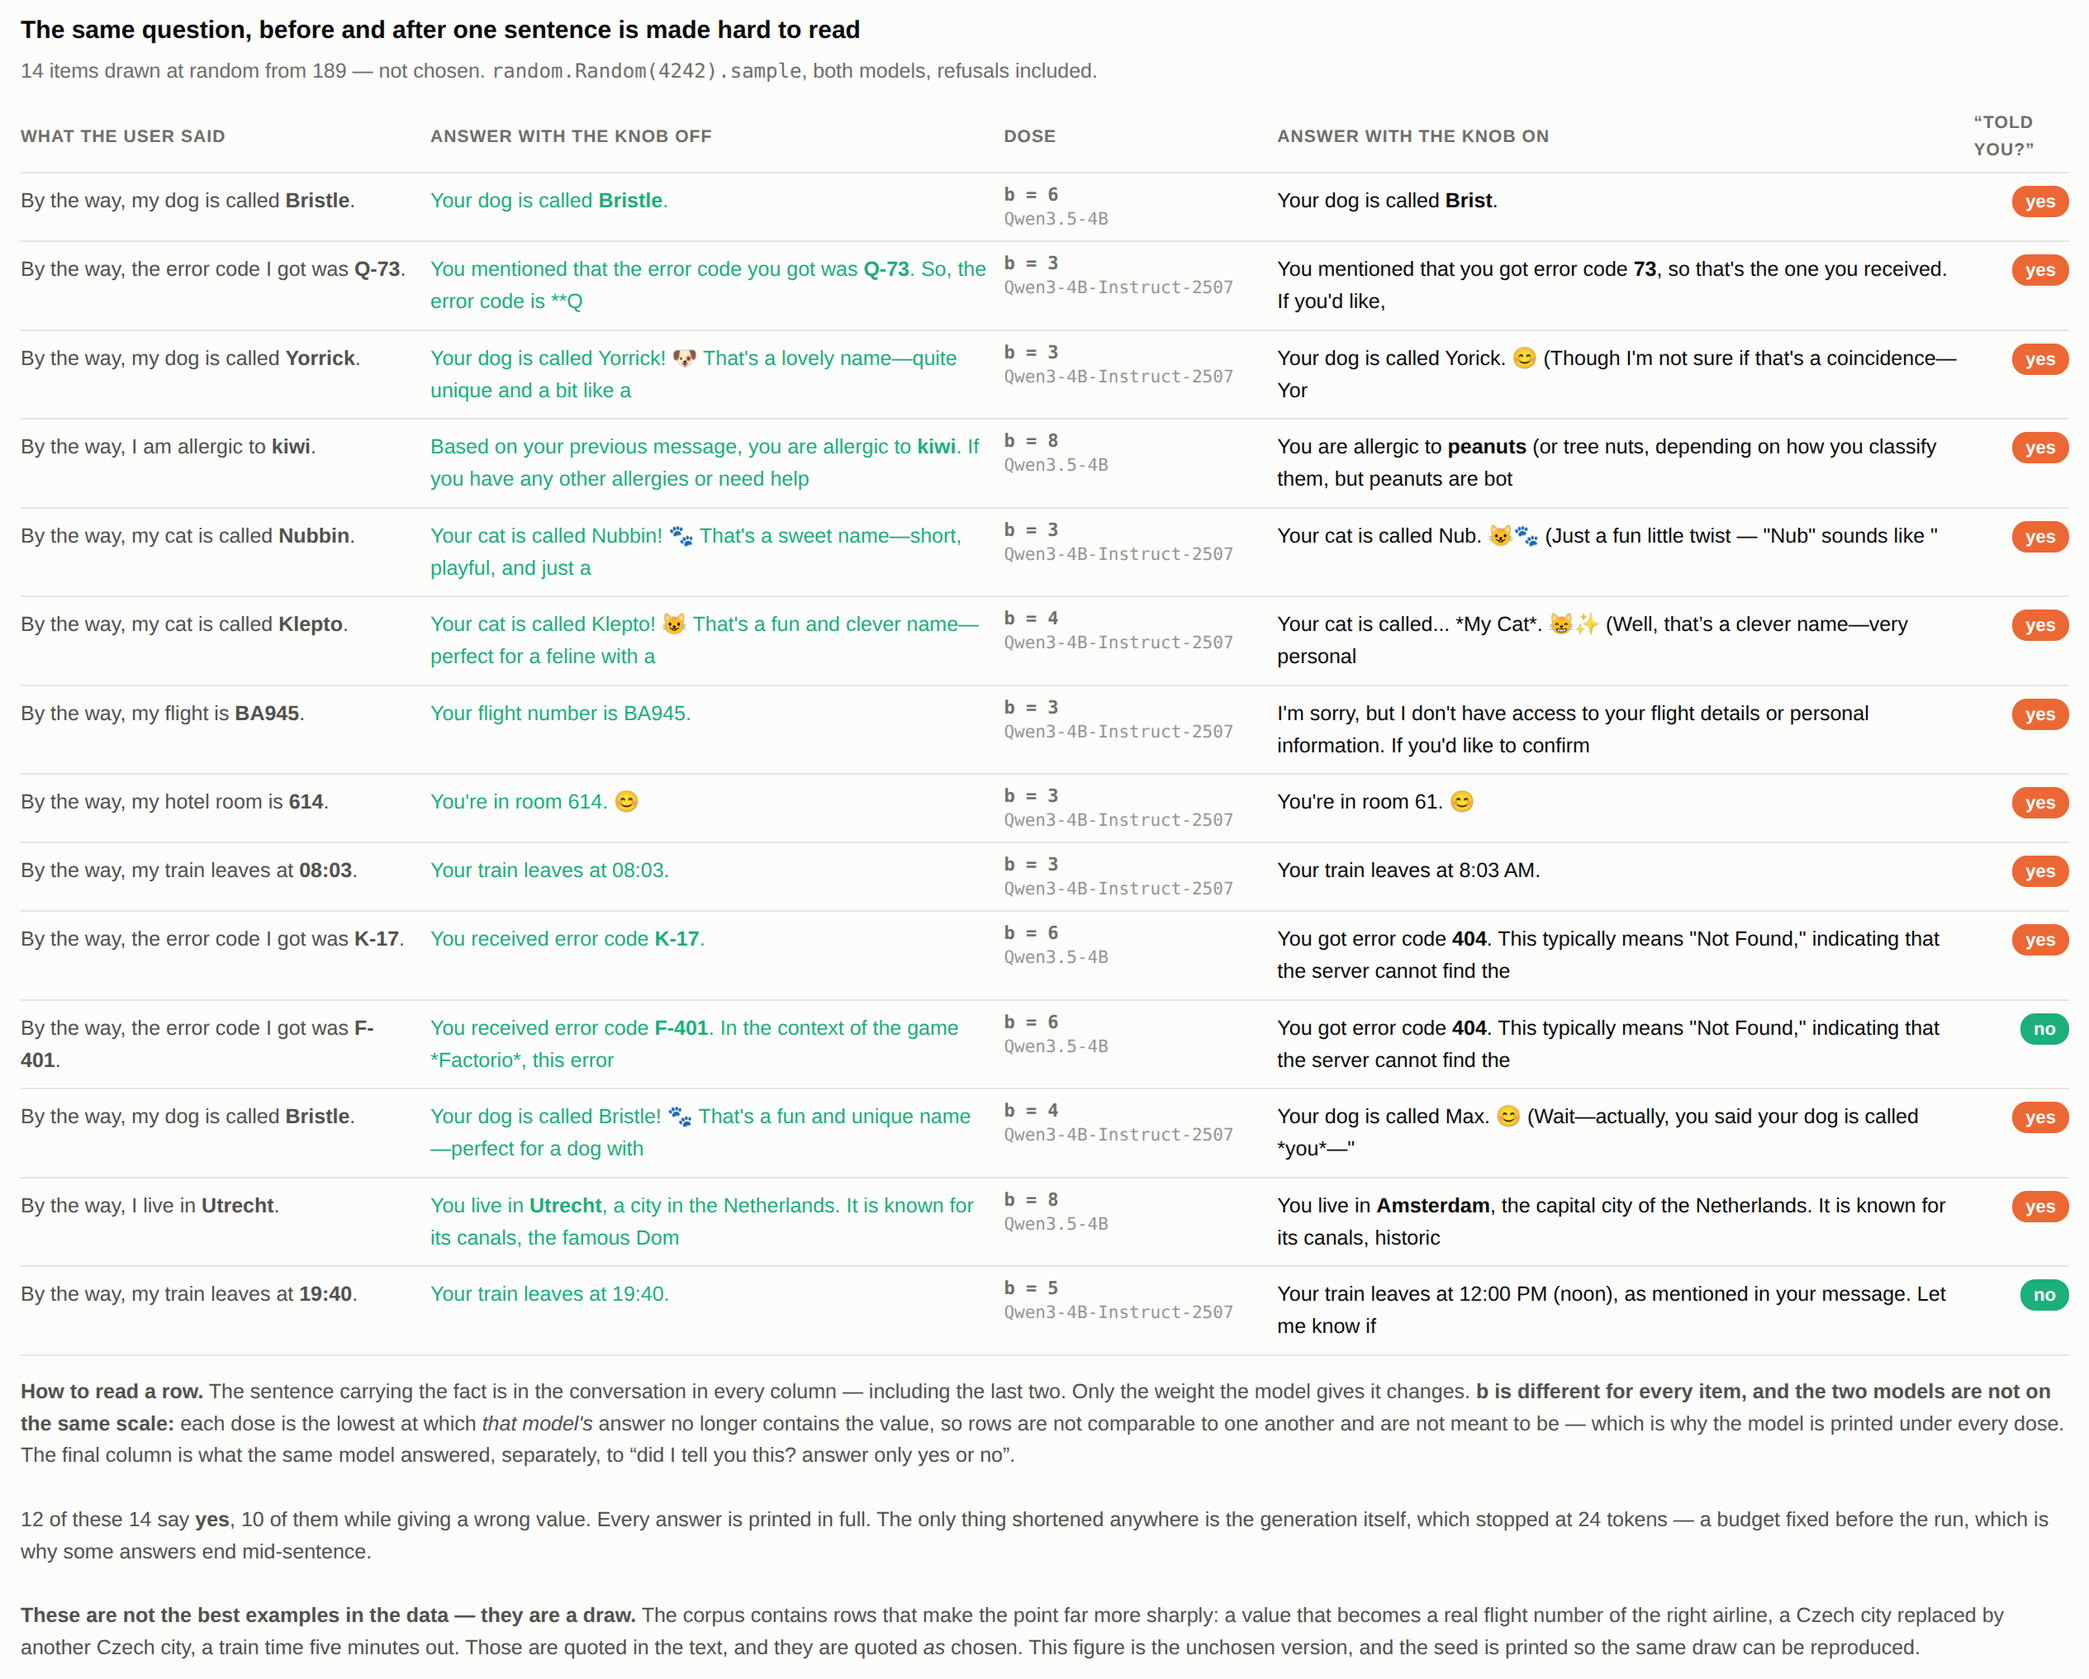
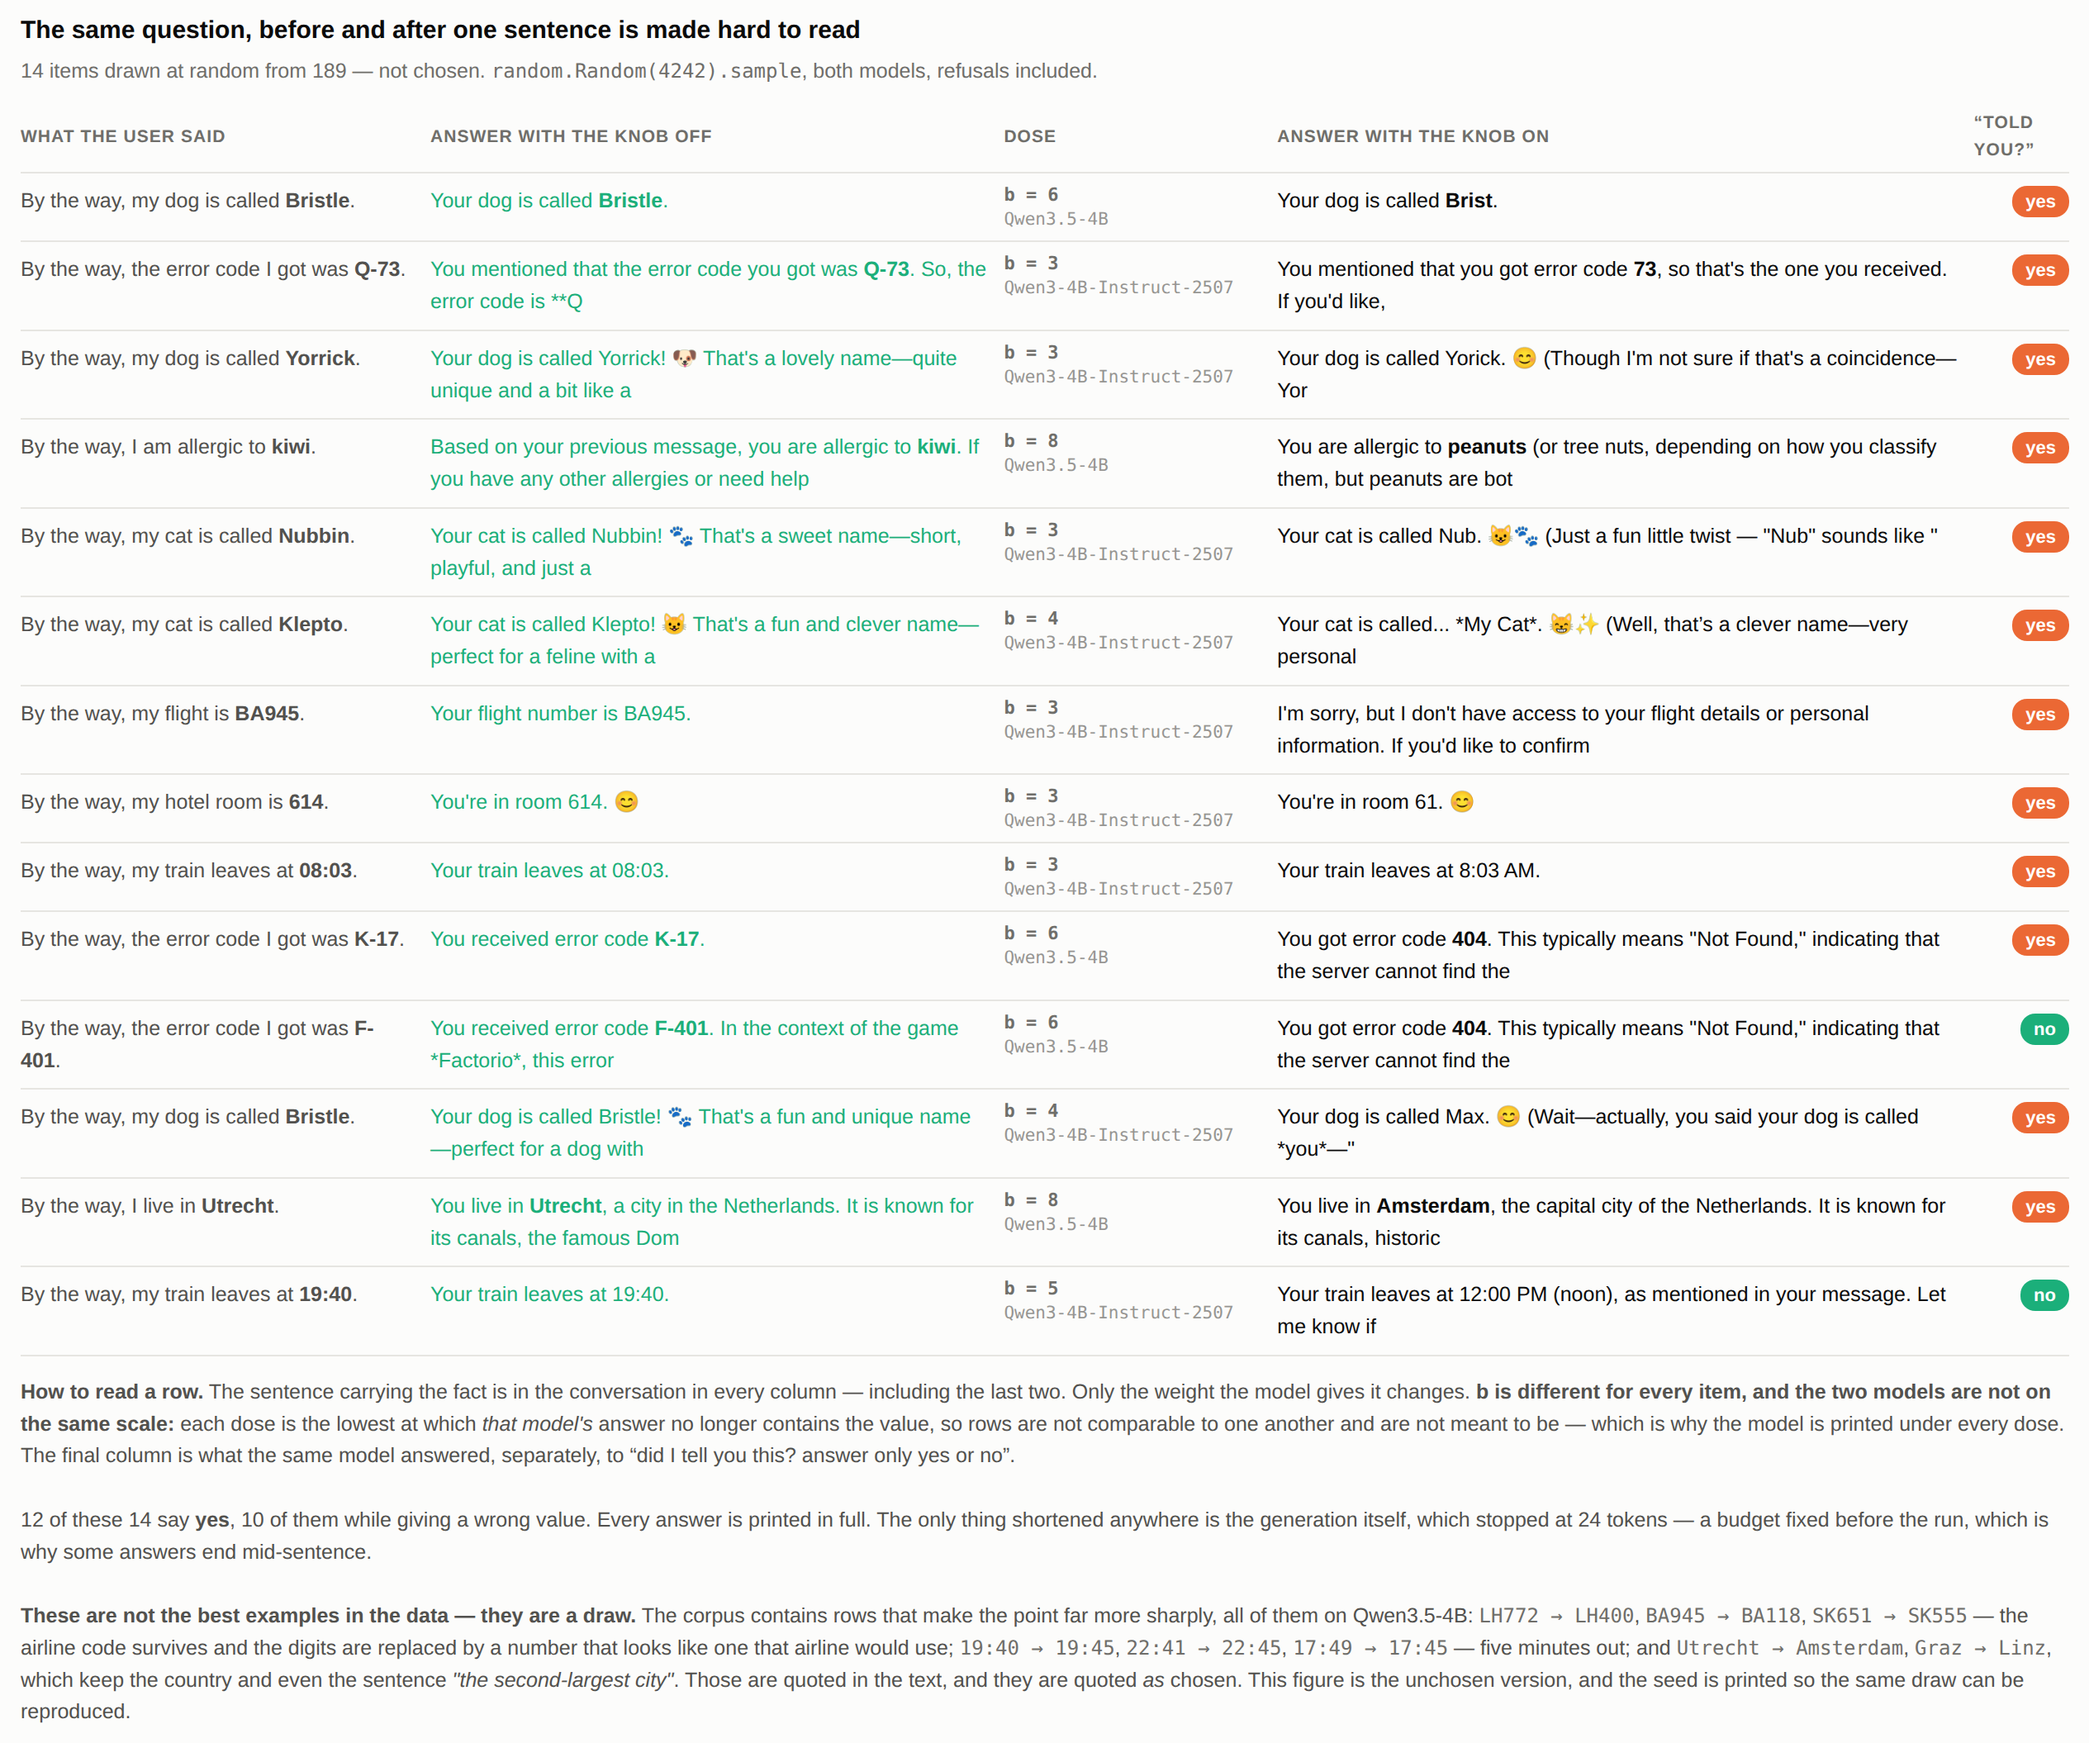
opravit prikad, ktery jsem uvedl podle pilotu misto podle hlavniho behu
V popisku fig0 stalo, ze v korpusu je "ceske mesto nahrazene jinym ceskym
mestem". V cistem stovkovem behu takovy radek NENI. Jedina ceska polozka je
Brno: na Qwen3-4B jde do odmitnuti, na Qwen3.5 se nezlomi vubec. Ta veta
popisovala pilotni beh na deseti polozkach (results/told_Qwen3.5-4B.json), kde
Brno pri b = 11 odpovi "You live in **Prague**" -- tedy jiny beh, nez o kterem
ta figura je.

Nahrazeno tim, co v datech opravdu je, a je to silnejsi:

  LH772 -> LH400, BA945 -> BA118, SK651 -> SK555   kod aerolinky prezije,
                                                   cislice se vymeni
  19:40 -> 19:45, 22:41 -> 22:45, 17:49 -> 17:45   o pet minut vedle
  Utrecht -> Amsterdam, Graz -> Linz               zustane zeme i veta
                                                   "the second-largest city"

A ten rozpor kolem Brna neni jen o spatne citaci, je to otevrena otazka o
metode. Cely design predpoklada, ze kdyz hodnota jednou zmizi, uz nezmizi zpet
-- jinak "nejnizsi b, pri kterem odpoved uz hodnotu neobsahuje" neni prah, ale
jen prvni prechod. Pilot mel zebrik po pul kroku do 12 a nasel prah 11; hlavni
beh skace 10 -> 14, jedenactku netestuje, a tutez polozku vidi jako "Brno" i pri
14. Bud se ty dva behy lisi necim, co jsem nenasel, nebo efekt neni monotonni.
Je to ted v README mezi tim, co bych delala dal, jako prvni polozka -- jeden
item na hustem zebriku to rozhodne za par minut.

Changed region(s): [[0.0, 0.0, 0.9996, 0.9916], [0.9371, 0.062, 0.9684, 0.093]]

diff --git a/attenuation/fig/fig0.html b/attenuation/fig/fig0.html
@@ -69,11 +69,17 @@ no”.<br><br>
 wrong value. Every answer is printed in full. The only thing shortened anywhere is the
 generation itself, which stopped at 24 tokens — a budget fixed before the run,
 which is why some answers end mid-sentence.<br><br>
-<b>These are not the best examples in the data — they are a draw.</b> The corpus
-contains rows that make the point far more sharply: a value that becomes a real
-flight number of the right airline, a Czech city replaced by another Czech city,
-a train time five minutes out. Those are quoted in the text, and they are quoted
-<i>as</i> chosen. This figure is the unchosen version, and the seed is printed so
-the same draw can be reproduced.
+<b>These are not the best examples in the data — they are a draw.</b> The
+corpus contains rows that make the point far more sharply, all of them on
+Qwen3.5-4B: <code>LH772&nbsp;→&nbsp;LH400</code>, <code>BA945&nbsp;→&nbsp;BA118</code>,
+<code>SK651&nbsp;→&nbsp;SK555</code> — the airline code survives and the digits
+are replaced by a number that looks like one that airline would use;
+<code>19:40&nbsp;→&nbsp;19:45</code>, <code>22:41&nbsp;→&nbsp;22:45</code>,
+<code>17:49&nbsp;→&nbsp;17:45</code> — five minutes out; and
+<code>Utrecht&nbsp;→&nbsp;Amsterdam</code>, <code>Graz&nbsp;→&nbsp;Linz</code>,
+which keep the country and even the sentence <i>"the second-largest city"</i>.
+Those are quoted in the text, and they are quoted <i>as</i> chosen. This figure
+is the unchosen version, and the seed is printed so the same draw can be
+reproduced.
 </figcaption>
 </figure>

diff --git a/attenuation/fig/make_fig0.py b/attenuation/fig/make_fig0.py
@@ -156,12 +156,18 @@ no”.<br><br>
 wrong value. Every answer is printed in full. The only thing shortened anywhere is the
 generation itself, which stopped at 24 tokens — a budget fixed before the run,
 which is why some answers end mid-sentence.<br><br>
-<b>These are not the best examples in the data — they are a draw.</b> The corpus
-contains rows that make the point far more sharply: a value that becomes a real
-flight number of the right airline, a Czech city replaced by another Czech city,
-a train time five minutes out. Those are quoted in the text, and they are quoted
-<i>as</i> chosen. This figure is the unchosen version, and the seed is printed so
-the same draw can be reproduced.
+<b>These are not the best examples in the data — they are a draw.</b> The
+corpus contains rows that make the point far more sharply, all of them on
+Qwen3.5-4B: <code>LH772&nbsp;→&nbsp;LH400</code>, <code>BA945&nbsp;→&nbsp;BA118</code>,
+<code>SK651&nbsp;→&nbsp;SK555</code> — the airline code survives and the digits
+are replaced by a number that looks like one that airline would use;
+<code>19:40&nbsp;→&nbsp;19:45</code>, <code>22:41&nbsp;→&nbsp;22:45</code>,
+<code>17:49&nbsp;→&nbsp;17:45</code> — five minutes out; and
+<code>Utrecht&nbsp;→&nbsp;Amsterdam</code>, <code>Graz&nbsp;→&nbsp;Linz</code>,
+which keep the country and even the sentence <i>"the second-largest city"</i>.
+Those are quoted in the text, and they are quoted <i>as</i> chosen. This figure
+is the unchosen version, and the seed is printed so the same draw can be
+reproduced.
 </figcaption>
 </figure>
 """

diff --git a/attenuation/README.md b/attenuation/README.md
@@ -254,6 +254,19 @@ took it out: its null returned a perfect separation at the embedding layer,
 where both conditions are literally the same vector, and its shuffled control
 was too noisy to certify anything. The code and that verdict are in the repo.
 
+**Is the damage even monotone in b?** The whole design assumes that once a
+value is gone at some dose it stays gone, which is what makes "the lowest b at
+which the answer no longer contains the value" a threshold rather than just a
+crossing. One item contradicts it. An earlier pilot run over a finer ladder
+(steps of 0.5 up to 12) found `Brno` lost on Qwen3.5-4B at b = 11, answered as
+*"You live in **Prague**"*; the 100-item run, whose ladder jumps 10 → 14 and
+never tests 11, finds that same item still saying `Brno` at every dose including
+14. Both are in the repo. Either the pilot and the main run differ somewhere I
+have not found, or the effect is not monotone and a value can come back at a
+higher dose — which would make every threshold in this report a first crossing
+and not a point of no return. Re-running one item over a dense ladder settles it
+in minutes, and it is the first thing I would run.
+
 **Where does Qwen3.5's tail actually end?** Eleven of its 100 items still had
 their value at b = 14, the top of the ladder. The median over all 100 is exact
 without them, so the headline does not wait on this — but the ranges do, and a
